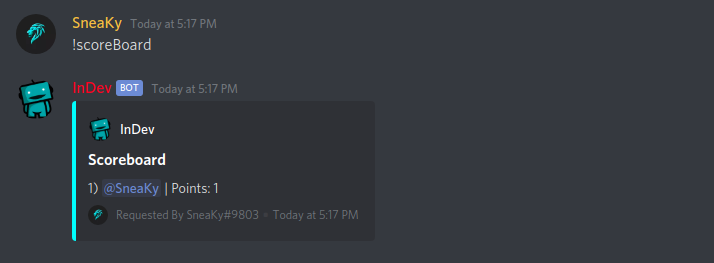
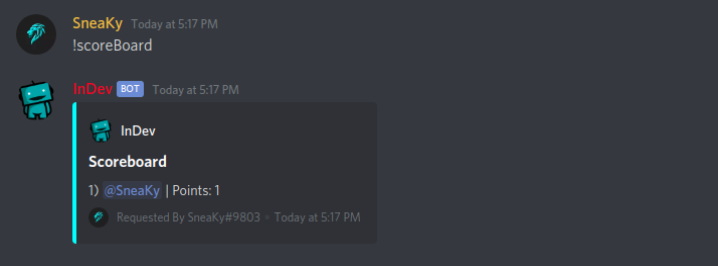
update images
update images

diff --git a/index.html b/index.html
@@ -51,13 +51,13 @@
   
 
   <div id="images">
-    <img class="images" src="./images/commands3.png" width="100%">
-    <img class="images" src="./images/!quiz3.png" width="100%">
-    <img class="images" src="./images/true3.png" width="100%">
-    <img class="images" src="./images/false3.png" width="100%">
-    <img class="images" src="./images/myPoints3.png" width="100%">
-    <img class="images" src="./images/scoreBoard3.png" width="100%">
-    <img class="images" src="./images/resetPoints3.png" width="100%">
+    <img class="images" src="./images/commands.png" width="100%">
+    <img class="images" src="./images/!quiz.png" width="100%">
+    <img class="images" src="./images/true.png" width="100%">
+    <img class="images" src="./images/false.png" width="100%">
+    <img class="images" src="./images/myPoints.png" width="100%">
+    <img class="images" src="./images/scoreBoard.png" width="100%">
+    <img class="images" src="./images/resetPoints.png" width="100%">
   </div>
 
 
